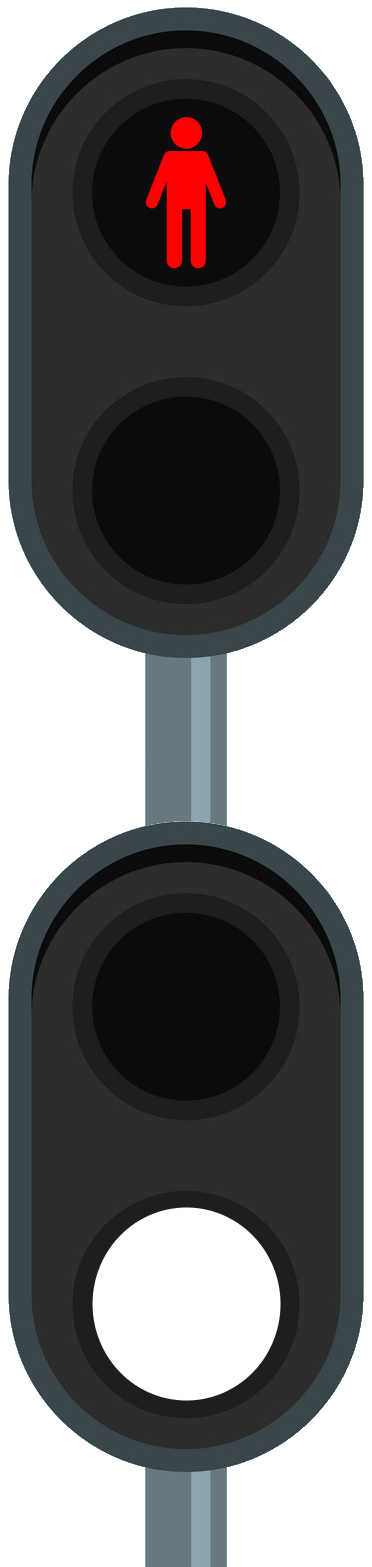
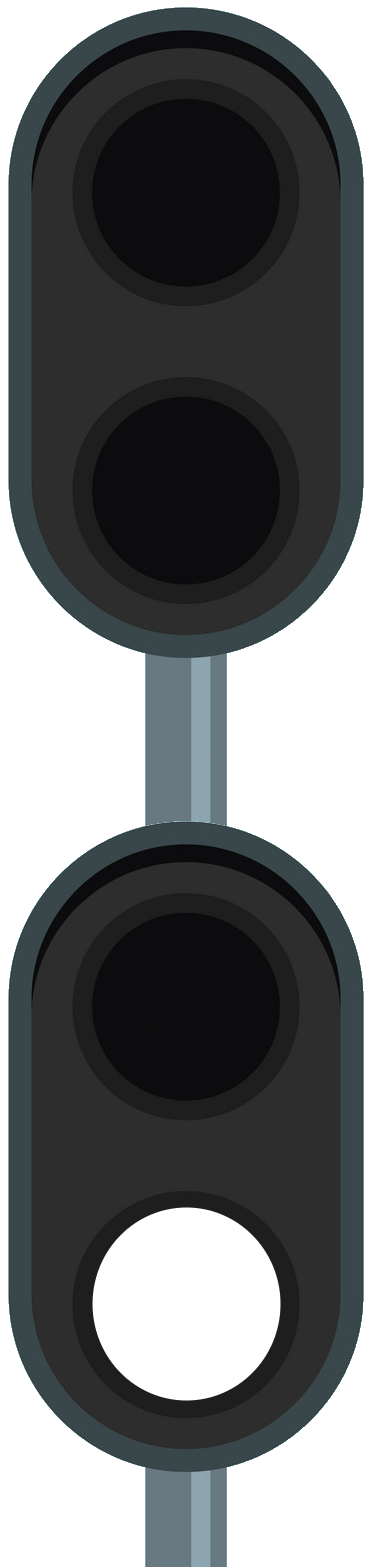
changed inactive state to no red light

Changed region(s): [[0.3844, 0.0613, 0.621, 0.1838]]

diff --git a/index.html b/index.html
@@ -50,13 +50,16 @@
 
         .p.wait,
         .p.stopping,
-        .p.going,
-        .p.inactive {
-            background-image: url("assets/p-stop.png");
+        .p.going {
+            background-image: url("assets/p-wait.png");
         }
 
         .p.walk {
             background-image: url("assets/p-walk.png");
+        }
+
+        .p.inactive {
+            background-image: url("assets/p-inactive.png");
         }
 
         .l.wait,
